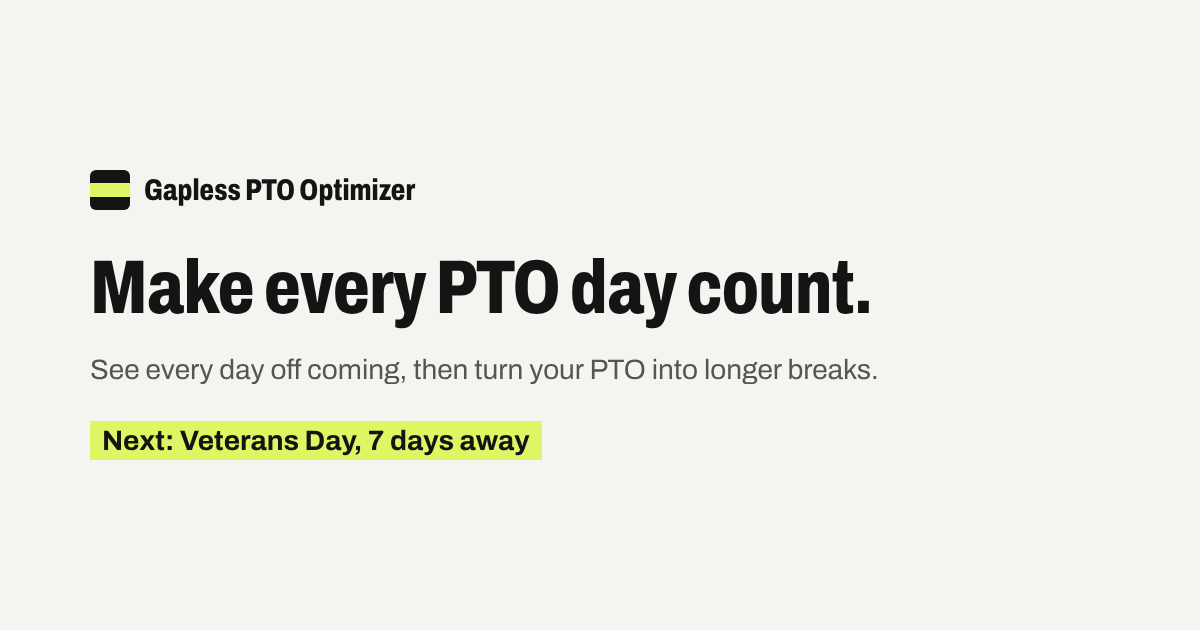
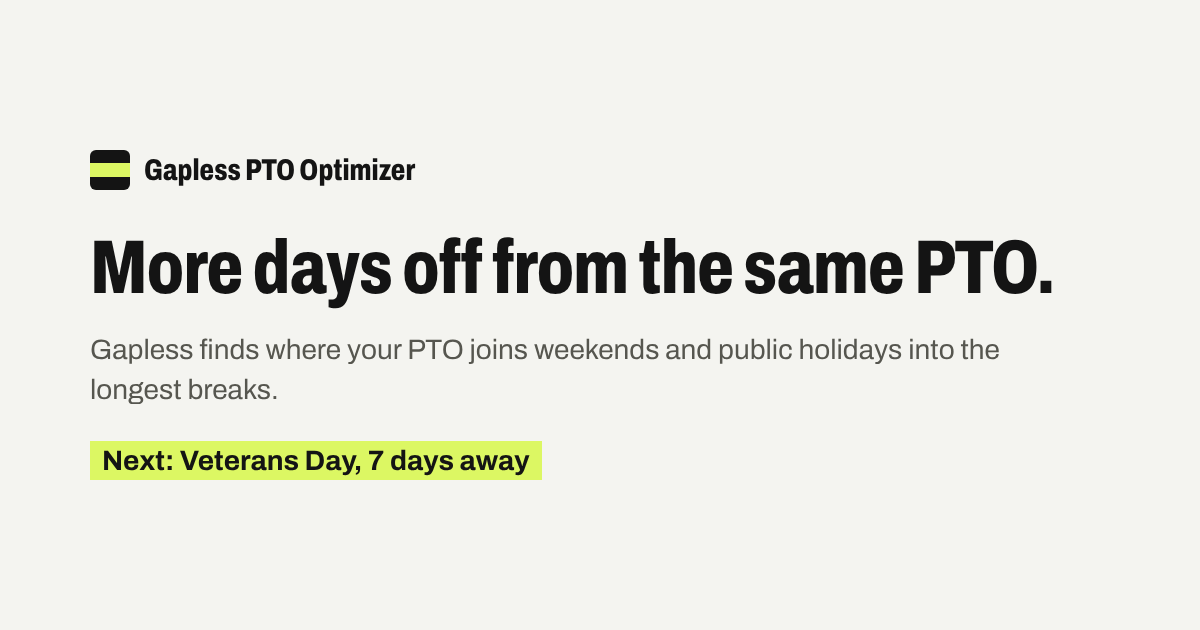
Redesign: per-route OG images in the new system, retire stale og-image and starter sprite, tab-bar spacing, QA scripts for the new navigation and landing
Claude-Session: https://claude.ai/code/session_01Fy88hAffeCoW9NtiV7Kbaa

Changed region(s): [[0.0617, 0.3619, 0.8942, 0.6333], [0.0617, 0.6635, 0.4625, 0.7841], [0.0617, 0.2413, 0.37, 0.3317]]

diff --git a/scripts/build-og-images.ts b/scripts/build-og-images.ts
@@ -96,8 +96,8 @@ async function main(): Promise<void> {
     browser,
     'landing',
     template(
-      'Make every PTO day count.',
-      'See every day off coming, then turn your PTO into longer breaks.',
+      'More days off from the same PTO.',
+      'Gapless finds where your PTO joins weekends and public holidays into the longest breaks.',
       nextHol ? `Next: ${nextHol.holiday.name}, ${nextHol.daysAway} days away` : '',
     ),
   );
@@ -117,11 +117,24 @@ async function main(): Promise<void> {
   await renderOgImage(
     browser,
     'sabbatical',
-    template('Sabbatical Planning', 'Place a longer break where it buys the most time.', top ? placementNote(top) : ''),
+    template('Plan a sabbatical', 'Place a longer break where it buys the most time.', top ? placementNote(top) : ''),
+  );
+
+  // 2026-11 redesign: every other route family gets its own image in the same system, so no
+  // shared page still shows the retired og-image.png.
+  await renderOgImage(
+    browser,
+    'policy',
+    template('How much PTO will you have?', 'Forecast your balance, see what is about to expire, and track your requests.', 'Free, and nothing leaves your browser'),
+  );
+  await renderOgImage(
+    browser,
+    'learn',
+    template('PTO, in plain words', 'Accrual, carryover, payout and requests explained, with worked examples.', 'Glossary, guides and answers'),
   );
 
   await browser.close();
-  console.log(`OG images written to ${outDir}: landing.png, pto.png, sabbatical.png`);
+  console.log(`OG images written to ${outDir}: landing.png, pto.png, sabbatical.png, policy.png, learn.png`);
 }
 
 main();

diff --git a/policy/index.html b/policy/index.html
@@ -25,10 +25,10 @@
       content="Describe your PTO policy in plain terms and see what it means for you: how fast you earn days, when you hit a cap, what you'd lose at reset, and what to ask HR."
     />
     <meta property="og:url" content="%SITE_URL%/policy" />
-    <meta property="og:image" content="%SITE_URL%/og-image.png" />
+    <meta property="og:image" content="%SITE_URL%/og-images/policy.png" />
     <meta property="og:image:width" content="1200" />
     <meta property="og:image:height" content="630" />
-    <meta property="og:image:alt" content="A plain-English summary of a PTO policy with a balance chart and alerts." />
+    <meta property="og:image:alt" content="How much PTO will you have? Forecast your balance and see what is about to expire." />
 
     <meta name="twitter:card" content="summary_large_image" />
     <meta name="twitter:title" content="Your Time-Off Policy, in Plain English — %PRODUCT_NAME%" />
@@ -36,7 +36,7 @@
       name="twitter:description"
       content="Describe your PTO policy in plain terms and see what it means for you. Free, no sign-up."
     />
-    <meta name="twitter:image" content="%SITE_URL%/og-image.png" />
+    <meta name="twitter:image" content="%SITE_URL%/og-images/policy.png" />
 
     <script defer data-domain="%SITE_HOST%" src="https://plausible.io/js/script.manual.js"></script>
   </head>

diff --git a/glossary/forfeiture/index.html b/glossary/forfeiture/index.html
@@ -19,7 +19,7 @@
     <meta property="og:title" content="forfeited — %PRODUCT_NAME% Glossary" />
     <meta property="og:description" content="Days lost for good. Either above the carryover cap at reset, or past a carried-days deadline." />
     <meta property="og:url" content="%SITE_URL%/glossary/forfeiture" />
-    <meta property="og:image" content="%SITE_URL%/og-image.png" />
+    <meta property="og:image" content="%SITE_URL%/og-images/learn.png" />
     <meta property="og:image:width" content="1200" />
     <meta property="og:image:height" content="630" />
     <meta property="og:image:alt" content="A plain-English glossary definition." />
@@ -27,7 +27,7 @@
     <meta name="twitter:card" content="summary_large_image" />
     <meta name="twitter:title" content="forfeited — %PRODUCT_NAME% Glossary" />
     <meta name="twitter:description" content="Days lost for good. Either above the carryover cap at reset, or past a carried-days deadline." />
-    <meta name="twitter:image" content="%SITE_URL%/og-image.png" />
+    <meta name="twitter:image" content="%SITE_URL%/og-images/learn.png" />
 
     <script defer data-domain="%SITE_HOST%" src="https://plausible.io/js/script.manual.js"></script>
   </head>

diff --git a/glossary/company-holiday/index.html b/glossary/company-holiday/index.html
@@ -19,7 +19,7 @@
     <meta property="og:title" content="company holiday — %PRODUCT_NAME% Glossary" />
     <meta property="og:description" content="A day your employer closes and pays you for. May not match public holidays exactly." />
     <meta property="og:url" content="%SITE_URL%/glossary/company-holiday" />
-    <meta property="og:image" content="%SITE_URL%/og-image.png" />
+    <meta property="og:image" content="%SITE_URL%/og-images/learn.png" />
     <meta property="og:image:width" content="1200" />
     <meta property="og:image:height" content="630" />
     <meta property="og:image:alt" content="A plain-English glossary definition." />
@@ -27,7 +27,7 @@
     <meta name="twitter:card" content="summary_large_image" />
     <meta name="twitter:title" content="company holiday — %PRODUCT_NAME% Glossary" />
     <meta name="twitter:description" content="A day your employer closes and pays you for. May not match public holidays exactly." />
-    <meta name="twitter:image" content="%SITE_URL%/og-image.png" />
+    <meta name="twitter:image" content="%SITE_URL%/og-images/learn.png" />
 
     <script defer data-domain="%SITE_HOST%" src="https://plausible.io/js/script.manual.js"></script>
   </head>

diff --git a/glossary/leave-of-absence/index.html b/glossary/leave-of-absence/index.html
@@ -19,7 +19,7 @@
     <meta property="og:title" content="leave of absence — %PRODUCT_NAME% Glossary" />
     <meta property="og:description" content="A formal, approved stretch away from work, paid or unpaid, for a specific reason." />
     <meta property="og:url" content="%SITE_URL%/glossary/leave-of-absence" />
-    <meta property="og:image" content="%SITE_URL%/og-image.png" />
+    <meta property="og:image" content="%SITE_URL%/og-images/learn.png" />
     <meta property="og:image:width" content="1200" />
     <meta property="og:image:height" content="630" />
     <meta property="og:image:alt" content="A plain-English glossary definition." />
@@ -27,7 +27,7 @@
     <meta name="twitter:card" content="summary_large_image" />
     <meta name="twitter:title" content="leave of absence — %PRODUCT_NAME% Glossary" />
     <meta name="twitter:description" content="A formal, approved stretch away from work, paid or unpaid, for a specific reason." />
-    <meta name="twitter:image" content="%SITE_URL%/og-image.png" />
+    <meta name="twitter:image" content="%SITE_URL%/og-images/learn.png" />
 
     <script defer data-domain="%SITE_HOST%" src="https://plausible.io/js/script.manual.js"></script>
   </head>

diff --git a/glossary/negative-balance/index.html b/glossary/negative-balance/index.html
@@ -19,7 +19,7 @@
     <meta property="og:title" content="negative balance — %PRODUCT_NAME% Glossary" />
     <meta property="og:description" content="Taking more PTO than you have accrued, borrowed against days you'll earn later." />
     <meta property="og:url" content="%SITE_URL%/glossary/negative-balance" />
-    <meta property="og:image" content="%SITE_URL%/og-image.png" />
+    <meta property="og:image" content="%SITE_URL%/og-images/learn.png" />
     <meta property="og:image:width" content="1200" />
     <meta property="og:image:height" content="630" />
     <meta property="og:image:alt" content="A plain-English glossary definition." />
@@ -27,7 +27,7 @@
     <meta name="twitter:card" content="summary_large_image" />
     <meta name="twitter:title" content="negative balance — %PRODUCT_NAME% Glossary" />
     <meta name="twitter:description" content="Taking more PTO than you have accrued, borrowed against days you'll earn later." />
-    <meta name="twitter:image" content="%SITE_URL%/og-image.png" />
+    <meta name="twitter:image" content="%SITE_URL%/og-images/learn.png" />
 
     <script defer data-domain="%SITE_HOST%" src="https://plausible.io/js/script.manual.js"></script>
   </head>

diff --git a/glossary/accrual-cap/index.html b/glossary/accrual-cap/index.html
@@ -19,7 +19,7 @@
     <meta property="og:title" content="accrual cap — %PRODUCT_NAME% Glossary" />
     <meta property="og:description" content="The highest your balance can go. Accrual pauses at the cap until you take some days." />
     <meta property="og:url" content="%SITE_URL%/glossary/accrual-cap" />
-    <meta property="og:image" content="%SITE_URL%/og-image.png" />
+    <meta property="og:image" content="%SITE_URL%/og-images/learn.png" />
     <meta property="og:image:width" content="1200" />
     <meta property="og:image:height" content="630" />
     <meta property="og:image:alt" content="A plain-English glossary definition." />
@@ -27,7 +27,7 @@
     <meta name="twitter:card" content="summary_large_image" />
     <meta name="twitter:title" content="accrual cap — %PRODUCT_NAME% Glossary" />
     <meta name="twitter:description" content="The highest your balance can go. Accrual pauses at the cap until you take some days." />
-    <meta name="twitter:image" content="%SITE_URL%/og-image.png" />
+    <meta name="twitter:image" content="%SITE_URL%/og-images/learn.png" />
 
     <script defer data-domain="%SITE_HOST%" src="https://plausible.io/js/script.manual.js"></script>
   </head>

diff --git a/glossary/pay-period/index.html b/glossary/pay-period/index.html
@@ -19,7 +19,7 @@
     <meta property="og:title" content="pay period — %PRODUCT_NAME% Glossary" />
     <meta property="og:description" content="The stretch of time your paycheck covers: weekly, biweekly, semi-monthly, or monthly." />
     <meta property="og:url" content="%SITE_URL%/glossary/pay-period" />
-    <meta property="og:image" content="%SITE_URL%/og-image.png" />
+    <meta property="og:image" content="%SITE_URL%/og-images/learn.png" />
     <meta property="og:image:width" content="1200" />
     <meta property="og:image:height" content="630" />
     <meta property="og:image:alt" content="A plain-English glossary definition." />
@@ -27,7 +27,7 @@
     <meta name="twitter:card" content="summary_large_image" />
     <meta name="twitter:title" content="pay period — %PRODUCT_NAME% Glossary" />
     <meta name="twitter:description" content="The stretch of time your paycheck covers: weekly, biweekly, semi-monthly, or monthly." />
-    <meta name="twitter:image" content="%SITE_URL%/og-image.png" />
+    <meta name="twitter:image" content="%SITE_URL%/og-images/learn.png" />
 
     <script defer data-domain="%SITE_HOST%" src="https://plausible.io/js/script.manual.js"></script>
   </head>

diff --git a/glossary/personal-day/index.html b/glossary/personal-day/index.html
@@ -19,7 +19,7 @@
     <meta property="og:title" content="personal day — %PRODUCT_NAME% Glossary" />
     <meta property="og:description" content="A day off for personal reasons. Sometimes its own small bank, separate from PTO." />
     <meta property="og:url" content="%SITE_URL%/glossary/personal-day" />
-    <meta property="og:image" content="%SITE_URL%/og-image.png" />
+    <meta property="og:image" content="%SITE_URL%/og-images/learn.png" />
     <meta property="og:image:width" content="1200" />
     <meta property="og:image:height" content="630" />
     <meta property="og:image:alt" content="A plain-English glossary definition." />
@@ -27,7 +27,7 @@
     <meta name="twitter:card" content="summary_large_image" />
     <meta name="twitter:title" content="personal day — %PRODUCT_NAME% Glossary" />
     <meta name="twitter:description" content="A day off for personal reasons. Sometimes its own small bank, separate from PTO." />
-    <meta name="twitter:image" content="%SITE_URL%/og-image.png" />
+    <meta name="twitter:image" content="%SITE_URL%/og-images/learn.png" />
 
     <script defer data-domain="%SITE_HOST%" src="https://plausible.io/js/script.manual.js"></script>
   </head>

diff --git a/glossary/use-it-or-lose-it/index.html b/glossary/use-it-or-lose-it/index.html
@@ -19,7 +19,7 @@
     <meta property="og:title" content="use-it-or-lose-it — %PRODUCT_NAME% Glossary" />
     <meta property="og:description" content="A policy with zero carryover. Anything unused at reset is gone for good." />
     <meta property="og:url" content="%SITE_URL%/glossary/use-it-or-lose-it" />
-    <meta property="og:image" content="%SITE_URL%/og-image.png" />
+    <meta property="og:image" content="%SITE_URL%/og-images/learn.png" />
     <meta property="og:image:width" content="1200" />
     <meta property="og:image:height" content="630" />
     <meta property="og:image:alt" content="A plain-English glossary definition." />
@@ -27,7 +27,7 @@
     <meta name="twitter:card" content="summary_large_image" />
     <meta name="twitter:title" content="use-it-or-lose-it — %PRODUCT_NAME% Glossary" />
     <meta name="twitter:description" content="A policy with zero carryover. Anything unused at reset is gone for good." />
-    <meta name="twitter:image" content="%SITE_URL%/og-image.png" />
+    <meta name="twitter:image" content="%SITE_URL%/og-images/learn.png" />
 
     <script defer data-domain="%SITE_HOST%" src="https://plausible.io/js/script.manual.js"></script>
   </head>

diff --git a/glossary/unlimited-pto/index.html b/glossary/unlimited-pto/index.html
@@ -19,7 +19,7 @@
     <meta property="og:title" content="unlimited PTO — %PRODUCT_NAME% Glossary" />
     <meta property="og:description" content="No fixed number of days. You take what seems reasonable. No balance to track." />
     <meta property="og:url" content="%SITE_URL%/glossary/unlimited-pto" />
-    <meta property="og:image" content="%SITE_URL%/og-image.png" />
+    <meta property="og:image" content="%SITE_URL%/og-images/learn.png" />
     <meta property="og:image:width" content="1200" />
     <meta property="og:image:height" content="630" />
     <meta property="og:image:alt" content="A plain-English glossary definition." />
@@ -27,7 +27,7 @@
     <meta name="twitter:card" content="summary_large_image" />
     <meta name="twitter:title" content="unlimited PTO — %PRODUCT_NAME% Glossary" />
     <meta name="twitter:description" content="No fixed number of days. You take what seems reasonable. No balance to track." />
-    <meta name="twitter:image" content="%SITE_URL%/og-image.png" />
+    <meta name="twitter:image" content="%SITE_URL%/og-images/learn.png" />
 
     <script defer data-domain="%SITE_HOST%" src="https://plausible.io/js/script.manual.js"></script>
   </head>

diff --git a/glossary/bridge-day/index.html b/glossary/bridge-day/index.html
@@ -19,7 +19,7 @@
     <meta property="og:title" content="bridge day — %PRODUCT_NAME% Glossary" />
     <meta property="og:description" content="One working day next to a holiday and a weekend. One PTO day buys the whole gap." />
     <meta property="og:url" content="%SITE_URL%/glossary/bridge-day" />
-    <meta property="og:image" content="%SITE_URL%/og-image.png" />
+    <meta property="og:image" content="%SITE_URL%/og-images/learn.png" />
     <meta property="og:image:width" content="1200" />
     <meta property="og:image:height" content="630" />
     <meta property="og:image:alt" content="A plain-English glossary definition." />
@@ -27,7 +27,7 @@
     <meta name="twitter:card" content="summary_large_image" />
     <meta name="twitter:title" content="bridge day — %PRODUCT_NAME% Glossary" />
     <meta name="twitter:description" content="One working day next to a holiday and a weekend. One PTO day buys the whole gap." />
-    <meta name="twitter:image" content="%SITE_URL%/og-image.png" />
+    <meta name="twitter:image" content="%SITE_URL%/og-images/learn.png" />
 
     <script defer data-domain="%SITE_HOST%" src="https://plausible.io/js/script.manual.js"></script>
   </head>
